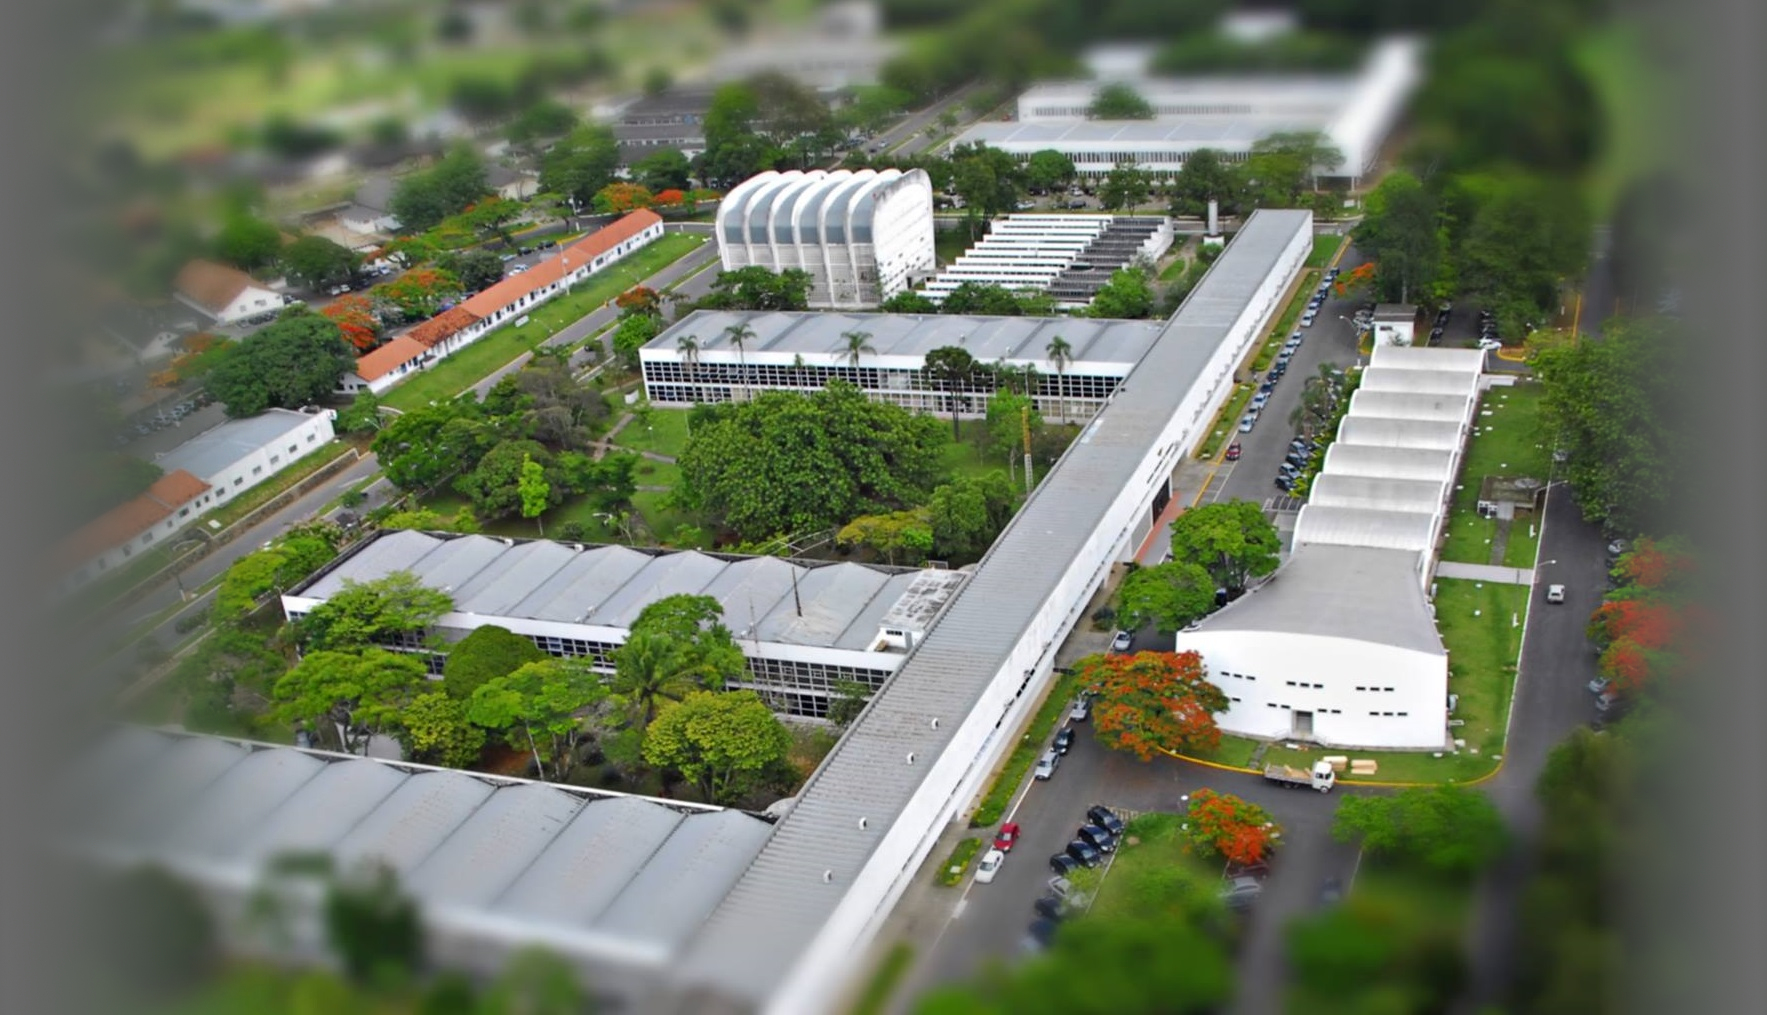
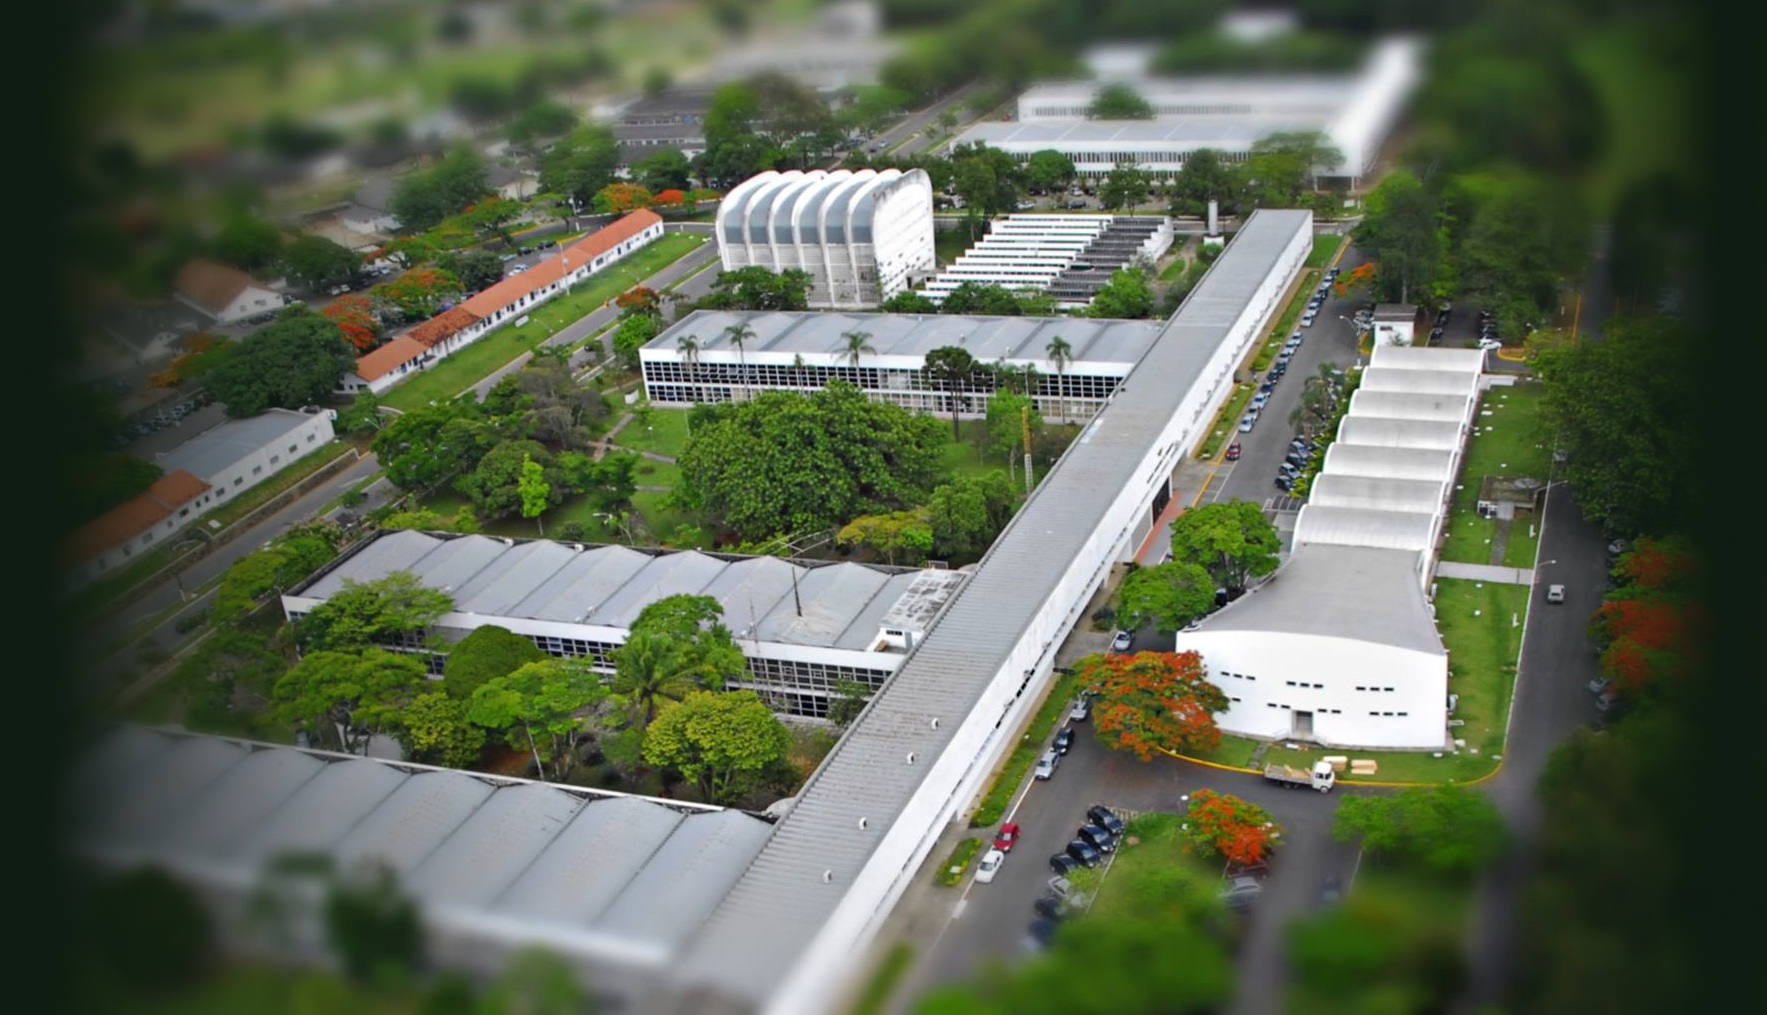
teste 9

Changed region(s): [[0.0, 0.0, 0.249, 1.0], [0.8715, 0.0, 1.0, 1.0]]

diff --git a/public/contact/index.html b/public/contact/index.html
@@ -885,18 +885,6 @@
   
 
   
-    
-    
-    
-    
-      
-      
-    
-    
-      
-      
-    
-  
 
   
 
@@ -936,7 +924,7 @@
 
   
   <section id="image" class="home-section wg-blank dark fullscreen" style="padding: 20px 0 20px 0;" >
-   <div class="home-section-bg  bg-image" style="background-image: url(&#39;media/tech1.png&#39;);background-size: cover;background-position: center;"></div>
+   <div class="home-section-bg " ></div>
     <div class="container">
 
     

diff --git a/public/index.html b/public/index.html
@@ -805,7 +805,7 @@ Criado em 2020, o IDEA é um grupo de pesquisa multidisciplinar do Instituto Tec
     
     
       
-      <img src="/media/ITA2.jpg" alt="Inovação Desenvolvimento Defesa e Aeroespaço">
+      <img src="/media/ITA5.jpg" alt="Inovação Desenvolvimento Defesa e Aeroespaço">
     
   </div>
 </div>
